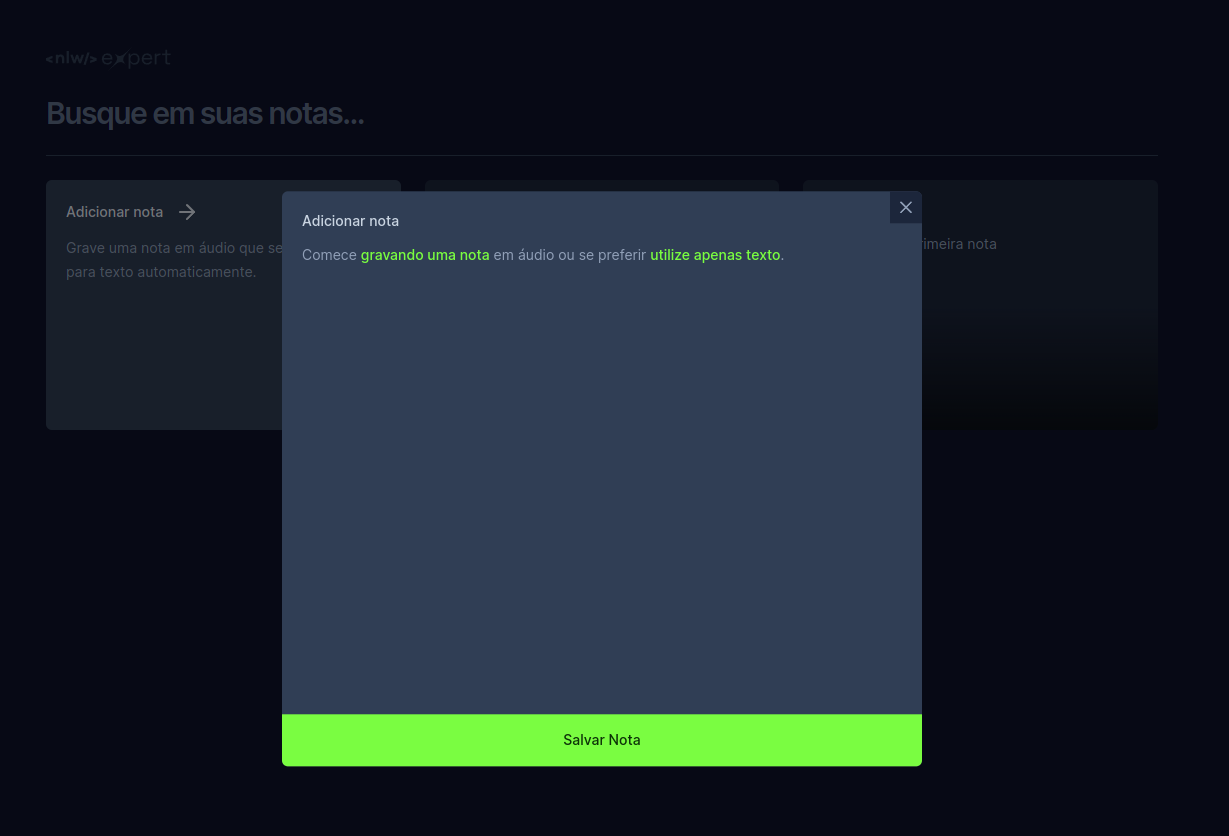
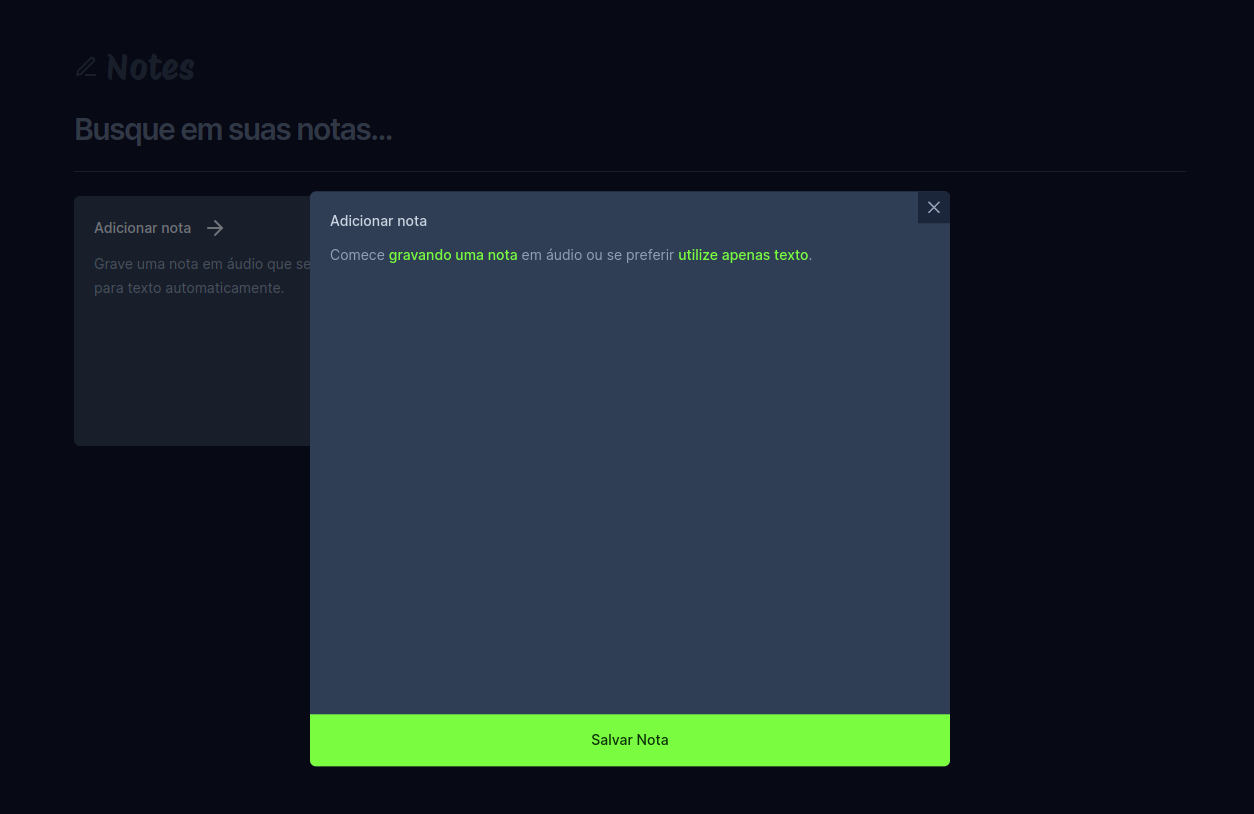
frist commit

Changed region(s): [[0.0618, 0.215, 0.8039, 0.9521], [0.0309, 0.1229, 0.3092, 0.1843]]

diff --git a/README.md b/README.md
@@ -1,6 +1,6 @@
-# Biscoito da Sorte
+# Notes
 
-Aplicativo para salvar anotações de texto e áudio. Desenvolvida utilizando R 
+Aplicativo para salvar anotações de áudio e texto. Desenvolvida utilizando React e Tailwind. Projeto proposto pela Rocketseat no evento NLW.
 
 Primeira página:
 
@@ -23,6 +23,13 @@ Gravando nota:
 Escrevendo nota:
 <p align="center">
   <img alt="projeto notes" src=".github/page4.png" width="100%">
+</p>
+
+Buscando nota:
+<p align="center">
+  <img alt="projeto notes" src=".github/search1.png" width="100%">
+
+  <img alt="projeto notes" src=".github/search2.png" width="100%">
 </p>
 
 <hr>
